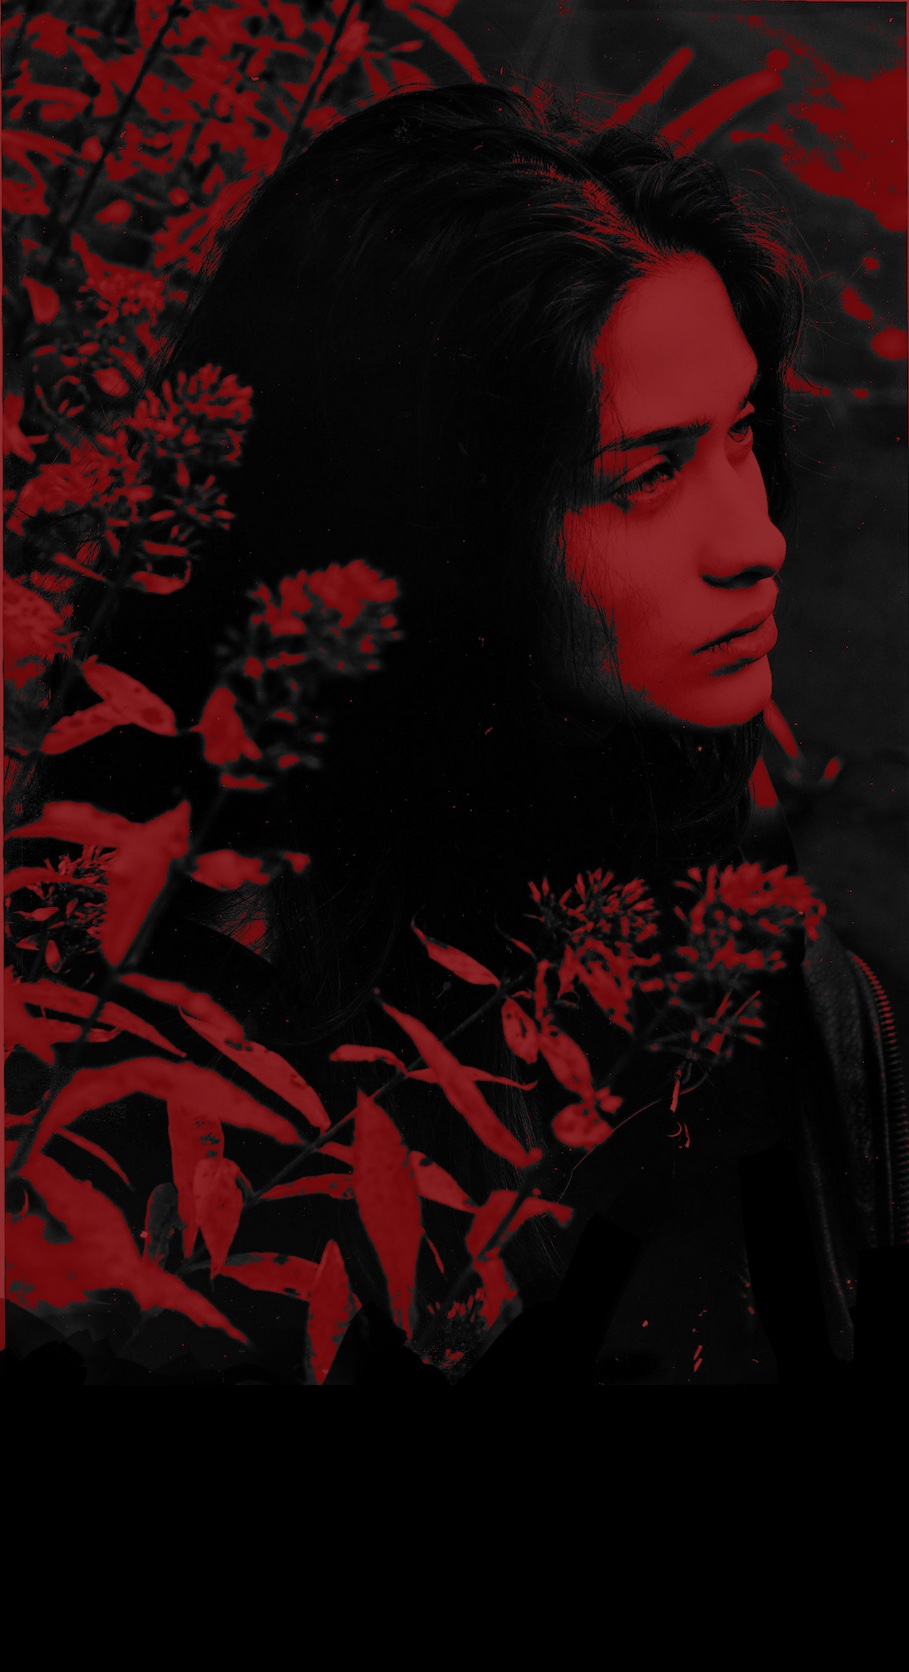
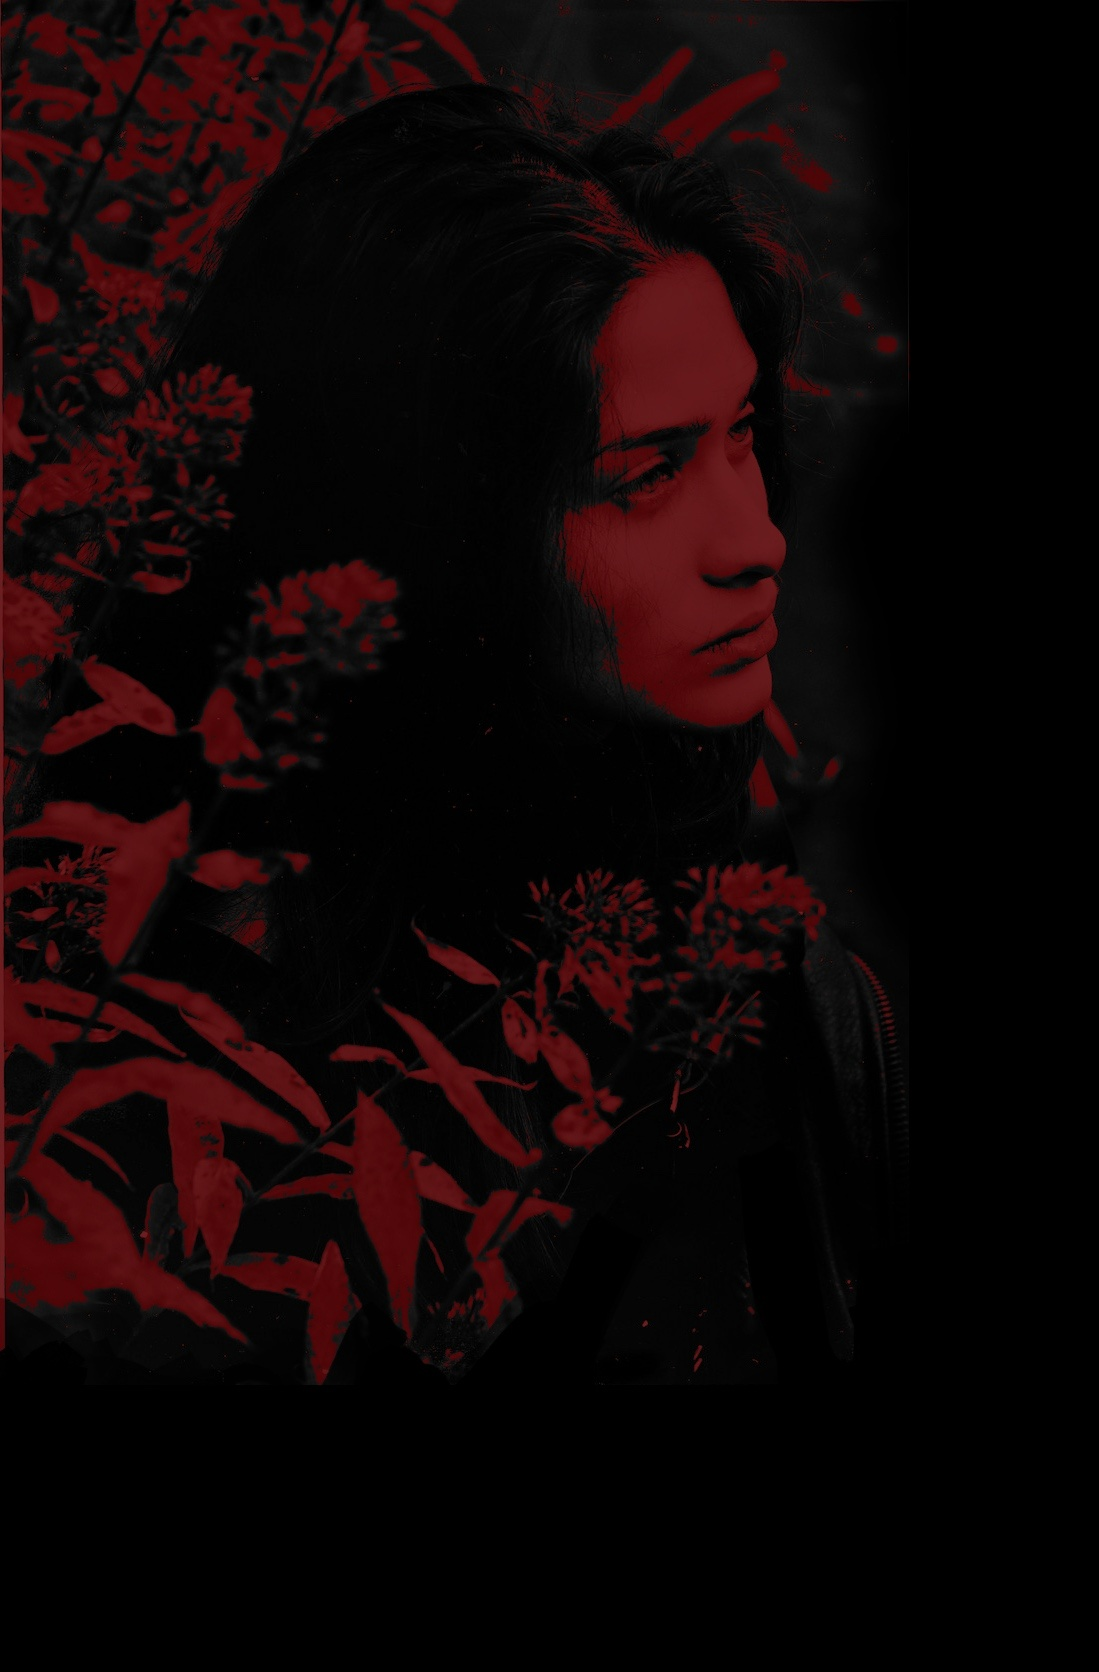
Add files via upload

diff --git a/about.html b/about.html
@@ -7,37 +7,45 @@
 <meta name="viewport" content="width=device-width, initial-scale=1.0">
 </head>
 
-<body>
+<body style="background-image: url('backgr10.jpg');">
     <header id="header">
         <div class="headermobile">
-                    <button id="menuBtn"><img class="menu-btn" src="menu.png"></button>
-                    <h2 class="titlemobile">SHTEI Photography and Design</h2>
-            </div>
-            <hr class="divider">
+            <button id="menuBtn"><img class="menu-btn" src="menu.png"></button>
+            <h2 class="titlemobile">
+                <span class="shtei">SHTEI</span>
+                <span class="subtitle">Photography and Design</span>
+            </h2>
+        </div>
+        <nav  id="menu">
+            <div class="navlink line"><p><a href="index.html">Home <img src="line.png"></a></p></div>
+            <div class="navlink circle"><p><a href="photography.html">Photography<img src="circle.png"></a></p></div>
+            <div class="navlink cross"><p><a href="graphicdesign.html">Graphic Design<img src="ciross.png"></a></p></div>
+            <div class="navlink wave"><p><a href="webdesign.html">Web Design<img src="wave.png"></a></p></div>
+            <div class="navlink shine on"><p><a href="about.html">About<img src="shine.png"></a></p></div>
+            <div class="navlink swirl"><p><a href="contact.html">Contact<img src="swirl.png"></a></p></div>
             
-            <nav  id="menu">
-                    <div class="navlink line on"><p><a href="index.html">Home</a></p><img src="line.png"></div>
-                    <div class="navlink circle"><p><a href="photography.html">Photography<img src="circle.png"></a></p></div>
-                    <div class="navlink cross"><p><a href="graphicdesign.html">Graphic Design<img src="ciross.png"></a></p></div>
-                    <div class="navlink wave"><p><a href="webdesign.html">Web Design<img src="wave.png"></a></p></div>
-                    <div class="navlink shine on"><p><a href="about.html">About<img src="shine.png"></a></p></div>
-                    <div class="navlink swirl"><p><a href="contact.html">Contact<img src="swirl.png"></a></p></div>
-                    
 
-            </nav>
+        </nav>
 
     </header>
     <main>
       <div class="projectpageabout">
             <div class="project-text about">
-                        <h3>Eva Shteiner</h3>
-                        <p>I am a multidisciplinary photographer and designer with a background in media design and art history.</p>
+                <h1 class="project-text">Eva Shteiner</h1>
+                <p>I am a multidisciplinary photographer and designer with a background in media design and art history.</p>
 
-                        <p>Before I worked as a photographer for several years, focusing on portraits, model portfolios, romantic photoshoots and creative collaborations with artists and musicians. Today I combine that experience with graphic and web design, creating brand identities, logos, posters, album visuals, and websites for personal, business, and music projects.</p>
+                <p>Before I worked as a photographer for several years, focusing on portraits, model portfolios, romantic photoshoots and creative collaborations with artists and musicians. Today I combine that experience with graphic and web design, creating brand identities, logos, posters, album visuals, and websites for personal, business, and music projects.</p>
 
-                        <p>Living in Vienna, I work in English, German, and Russian, and focus on expressive, fresh visual solutions that connect aesthetics with clear communication.</p>
+                <p>Living in Vienna, I work in English, German, and Russian, and focus on expressive, fresh visual solutions that connect aesthetics with clear communication.</p>
 
-                    <div class="edu"> <div class="pointedu">2015 Photography at the “British High School of Art and Design” </div><div class="pointedu">2016 Design at the High School of Economics in Moscow </div> <div class="pointedu">2024 Media design at the Lik Academy</div><div class="pointedu"> 2026 Bachelor of History of Art at the University of Vienna</div></div>
+                <img src="divider.png" class="dividerimg">
+
+                <div class="edu"> 
+                    <div class="pointedu">2015 Photography at the “British High School of Art and Design”</div>
+                    <div class="pointedu">2016 Design at the High School of Economics in Moscow</div>
+                    <div class="pointedu">2024 Media design at the Lik Academy</div>
+                    <div class="pointedu"> 2026 Bachelor of History of Art at the University of Vienna</div>
+                </div>
             </div>
             <div class="project-images">
                 <img class="projectgallery" src="me2.jpg" style="width: 100%">

diff --git a/fontstryout.html b/fontstryout.html
@@ -2,53 +2,51 @@
 <html>
 <head>
 <meta charset="utf-8">
-<title>SHTEI Contact</title>
+<title>SHTEI Photography and Design</title>
 <link href="styles.css" rel="stylesheet" type="text/css">
 <meta name="viewport" content="width=device-width, initial-scale=1.0">
 </head>
 
-<body style="background-image: url('backgr11.jpg');">
+<body
+    style="background-image: url(backgr1.jpg);">
     <header id="header">
         <div class="headermobile">
             <button id="menuBtn"><img class="menu-btn" src="menu.png"></button>
             <h2 class="titlemobile">
-                <span class="shtei">SHTEI</span>
-                <span class="subtitle">Photography and Design</span>
-            </h2>
+  <span class="shtei">SHTEI</span>
+  <span class="subtitle">Photography and Design</span>
+</h2>
         </div>
+     
+    
         <nav  id="menu">
-            <div class="navlink line"><p><a href="index.html">Home <img src="line.png"></a></p></div>
+            <div class="navlink line on"><p><a href="index.html">Home <img src="line.png"></a></p></div>
             <div class="navlink circle"><p><a href="photography.html">Photography<img src="circle.png"></a></p></div>
             <div class="navlink cross"><p><a href="graphicdesign.html">Graphic Design<img src="ciross.png"></a></p></div>
             <div class="navlink wave"><p><a href="webdesign.html">Web Design<img src="wave.png"></a></p></div>
             <div class="navlink shine"><p><a href="about.html">About<img src="shine.png"></a></p></div>
-            <div class="navlink swirl on"><p><a href="contact.html">Contact<img src="swirl.png"></a></p></div>
+            <div class="navlink swirl"><p><a href="contact.html">Contact<img src="swirl.png"></a></p></div>
             
 
         </nav>
-
-    </header>
-    <main>
-      <div class="projectpage contact">
-            <div class="project-text">
-                    <h1>Eva Shteiner</h1>
-                    <a href="mailto:evashteinerdesign@gmail.com">evashteinerdesign@gmail.com</a>
-                    <p style="text-indent: 0;">vienna</p>
-                    <a href="https://www.instagram.com/shteinerphoto/" target="_blank"><img src="instalogo.png" style="width: 40px; height: auto;" alt="Instagram logo"></a>
-                    
-            </div>
-            <div class="project-images">
-                <img class="projectgallery" src="backgr9.jpg" style="width: 70%">
-            </div>
-        </div>
     
+    </header>
+
+    <main>
+    
+        <p style="font-family: 'Inter'; font-size: 48px;">Inter</p>
+        <p style="font-family: 'SpaceGrotesk'; font-size: 48px;">SpaceGrotesk</p>
+        <p style="font-family: 'BebasNeue'; font-size: 48px;">BebasNeue</p>
+        <p style="font-family: 'KolkerBrush'; font-size: 48px;">KolkerBrush</p>
+        <p style="font-family: 'Cormorant Garamond, Haettenschweiler'; font-size: 48px;">Cormorant Garamond, Haettenschweiler</p>
     </main>
     <footer>
         <p>eva shteiner</p>
         <p>photography / design / web</p>
         <p>evashteinerdesign@gmail.com</p>
 	</footer>
-        <script>
+
+    <script>
         const menuBtn = document.getElementById("menuBtn");
         const menu = document.getElementById("menu");
 

diff --git a/styles.css b/styles.css
@@ -97,6 +97,7 @@ h3 {
 }
 
 a {
+  font-family: "SpaceGrotesk", sans-serif;
   text-decoration: none;
   color: white;
 }
@@ -107,8 +108,8 @@ a:hover {
 }
 
 p {
-  font-family: SpaceGrotesk;
-  font-size: 1.1em;
+  font-family: "SpaceGrotesk", sans-serif;
+  font-size: 1em;
   line-height: 1.6;
   color: white;
 }
@@ -212,7 +213,6 @@ footer p:last-child {
   display: block;
   text-align: center;
   margin: 20px auto;
-  font-family: Cormorant Garamond, Haettenschweiler, 'Arial Narrow Bold', sans-serif;
   font-size: 1.2em;
   color: white;
 }
@@ -241,7 +241,7 @@ nav, nav a {
   display: flex;
   gap: 7vw;
   justify-content: center;
-  font-family: Cormorant Garamond;
+  font-family: SpaceGrotesk;
   font-size: 16px;
   font-weight: bold;
   text-transform: uppercase;
@@ -411,9 +411,21 @@ nav, nav a {
   align-items: start;
 }
 
+.project-text h1 { 
+  font-family: "SpaceGrotesk", sans-serif;
+  font-weight: 300;
+  font-size: 1.5em;
+  letter-spacing: 2px;
+  margin: 3vh 0;
+}
+
+.project-text h1::first-letter { 
+  font-size: 5em;
+  font-family: KolkerBrush, sans-serif;
+}
 .descriptionspan {
   display: block;
-  font-family: SpaceGrotesk, sans-serif;
+  font-family: "SpaceGrotesk", sans-serif;
   font-size: 0.8rem;
   letter-spacing: 2px;
   text-transform: uppercase;
@@ -438,7 +450,6 @@ margin: 0 0 3vw 0;
 
 
 .project-text {
-  font-family: Cormorant Garamond, sans-serif;
   font-size: 1em;
 }
 
@@ -447,10 +458,6 @@ margin: 0 0 3vw 0;
   margin: 0;
 }
 
-p {
-  font-family: Cormorant Garamond, sans-serif;
-  font-size: 1.1em;
-}
 
 .link p {
   font-family: Cormorant Garamond, sans-serif;
@@ -523,21 +530,24 @@ max-width: 100%;
   transform: scale(1.03);
 }
 
-#showMore {
+#showMore, #showMore:visited, #showMore:active, #showMore:focus {
   display: block;
-  margin: 20px auto;
+  margin: 50px auto;
   padding: 10px 20px;
-  cursor: pointer;
-  background-color: white;
-  font-family: "Cormorant Garamond", 'Arial Narrow Bold', sans-serif;
+  background: FireBrick;
+  color: black;
   font-weight: bold;
-  color: red;
-  border: none;
+  border: 1px solid FireBrick;
+  font-family: SpaceGrotesk, sans-serif;
+  font-size: 0.8rem;
+  text-transform: uppercase;
+  letter-spacing: 2px;
+  cursor: pointer;
 }
 
-
 #showMore:hover {
-  background-color: white;
+  background: black;
+  color: FireBrick;
 }
 
 .hidden-photo {
@@ -579,7 +589,7 @@ max-width: 100%;
 .pointedu {
   padding: 10px 15px;
   position: relative;
-  font-family: Cormorant Garamond, sans-serif;
+  font-family: "Spacegrotesk", sans-serif;
 }
 
 .pointedu::before {
@@ -592,6 +602,11 @@ max-width: 100%;
   height: 10px;
   background: white;
   border-radius: 50%;
+}
+
+.contact {
+  max-width: 900px;
+  gap: 0;
 }
 
 /* Mobile */
@@ -827,6 +842,36 @@ p {
   flex-direction: column;
   align-items: center;
 }
+
+.projectpageabout {
+  display: flex;
+  flex-direction: column;
+}
+
+.project-text {
+  display: contents;
+}
+
+.projectpageabout h1 {
+  order: 1;
+}
+
+.project-images {
+  order: 2;
+}
+
+.projectpageabout .about > p {
+  order: 3;
+}
+
+.projectpageabout .dividerimg {
+  order: 4;
+}
+
+.edu {
+  order: 5;
+}
+
 
 }
 

diff --git a/studio.html b/studio.html
@@ -37,7 +37,9 @@
             <div class="project-text">
                     <h1>Studio</h1>
                     <p>A studio can create a controlled and minimalist environment, offering a clean aesthetic, greater creative freedom, and a polished, professional look.
-                        It can serve as a tool for almost any kind of photoshoot, ranging from artistic album covers to professional portraits.</p>
+                        It can serve as a tool for almost any kind of photoshoot, ranging from artistic album covers to professional portraits.
+                        I usually prefer to shoot in a studio when working on portraits, promotional materials, acting and modeling portfolios, and clothing showcases.
+                    </p>
             </div>
             <img src="divider.png" class="dividerimg">
             <div class="gallery" id="gallery"></div>
@@ -45,7 +47,8 @@
         </div>
 
 
-<button id="showMore">Show More</button>
+        <button id="showMore">Show More</button>
+        <a href="#header" class="back">Back to Menu</a>
 
     <script>
         const gallery = document.getElementById('gallery');

diff --git a/webdesign.html b/webdesign.html
@@ -15,10 +15,10 @@
         <hr class="divider">
         
         <nav  id="menu">
-                <div class="navlink line on"><p><a href="index.html">Home</a></p><img src="line.png"></div>
+                <div class="navlink line"><p><a href="index.html">Home</a></p><img src="line.png"></div>
                 <div class="navlink circle"><p><a href="photography.html">Photography<img src="circle.png"></a></p></div>
                 <div class="navlink cross"><p><a href="graphicdesign.html">Graphic Design<img src="ciross.png"></a></p></div>
-                <div class="navlink wave"><p><a href="webdesign.html">Web Design<img src="wave.png"></a></p></div>
+                <div class="navlink wave on"><p><a href="webdesign.html">Web Design<img src="wave.png"></a></p></div>
                 <div class="navlink shine"><p><a href="about.html">About<img src="shine.png"></a></p></div>
                 <div class="navlink swirl"><p><a href="contact.html">Contact<img src="swirl.png"></a></p></div>
                 

diff --git a/graphicdesign.html b/graphicdesign.html
@@ -20,7 +20,7 @@
             <nav  id="menu">
                     <div class="navlink line"><p><a href="index.html">Home</p><img src="line.png"></a></div>
                     <div class="navlink circle"><p><a href="photography.html">Photography<img src="circle.png"></a></p></div>
-                    <div class="navlink cross"><p><a href="graphicdesign.html">Graphic Design<img src="ciross.png"></a></p></div>
+                    <div class="navlink cross on"><p><a href="graphicdesign.html">Graphic Design<img src="ciross.png"></a></p></div>
                     <div class="navlink wave"><p><a href="webdesign.html">Web Design<img src="wave.png"></a></p></div>
                     <div class="navlink shine"><p><a href="about.html">About<img src="shine.png"></a></p></div>
                     <div class="navlink swirl"><p><a href="contact.html">Contact<img src="swirl.png"></a></p></div>

diff --git a/music.html b/music.html
@@ -46,7 +46,8 @@
 
         </div>
 
-<button id="showMore">Show More</button>
+        <button id="showMore">Show More</button>
+        <a href="#header" class="back">Back to Menu</a>
 
     <script>
         const gallery = document.getElementById('gallery');

diff --git a/soft.html b/soft.html
@@ -44,7 +44,8 @@
 
         </div>
 
-<button id="showMore">Show More</button>
+        <button id="showMore">Show More</button>
+        <a href="#header" class="back">Back to Menu</a>
 
     <script>
     const gallery = document.getElementById('gallery');
